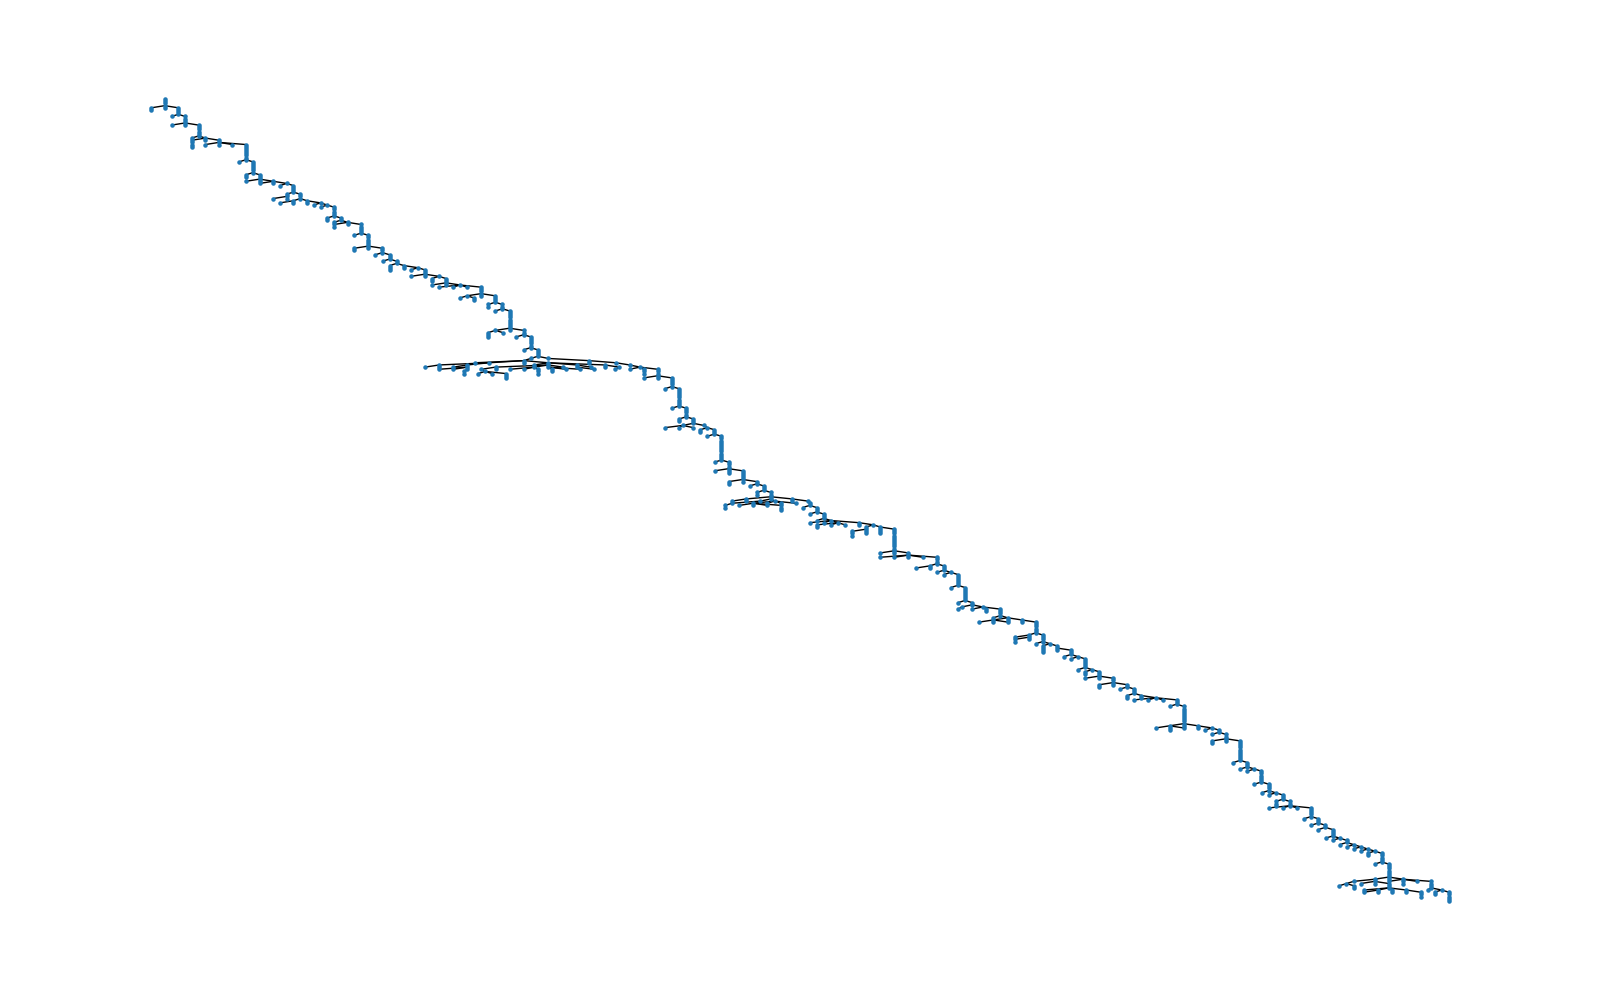
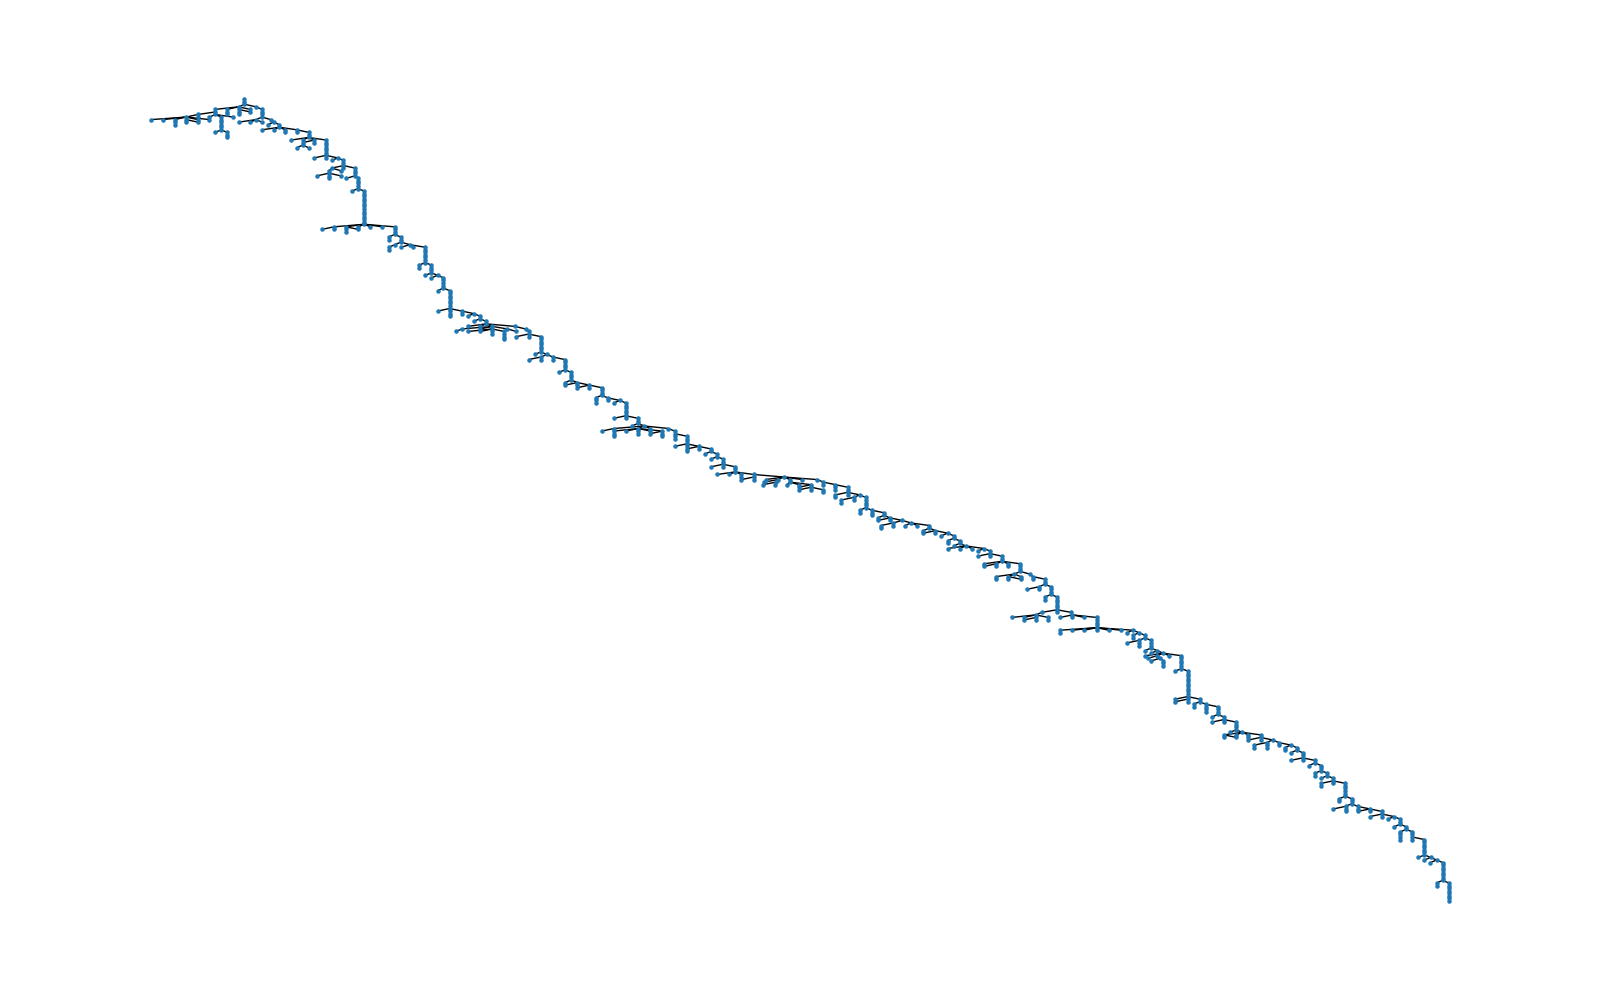
worked on the basics of the algo

Changed region(s): [[0.0938, 0.093, 0.7188, 0.682], [0.6875, 0.651, 0.9062, 0.899]]

diff --git a/loop_contraction.py b/loop_contraction.py
@@ -5,74 +5,139 @@ from matplotlib import pylab
 from networkx.drawing.nx_pydot import graphviz_layout
 import matplotlib.pyplot as plt
 from matplotlib.animation import FuncAnimation
+from itertools import chain
 
-class HyperEdge:
-    def __init__(self, members):
-        self.members = members #list of vertice labels (ints)
-    def append(self, v):
-        self.members.append(v)
-    def out_edges(self, T):
-        out_edges = []
-        for v in self.members:
-            if(T.nodes[v]["out_degree"] > 0): #a member has a vertex out
-                out_edges = out_edges + T.node[v]["out_edges"]
-        return out_edges # a list of edge values
-
-global T
+global T, COUNTER
+COUNTER = 1
 T = nx.MultiDiGraph()
 
 """ Simulate a random walk on the binary tree for N steps. """ 
 def loop_contraction(N, T): 
-    path = [(0,0)]
-    T.add_node(0, out_degree=0, in_edges=[], out_edges=[])
-    ctr = 0
-    cur_step = 0 #start at root
-    for _ in range(N):
-        origin_of_step, next_step, H = step(cur_step, H) #changes the hypergraph
+    path = [1] #the path that will be animated, stored as a ordered list of vertices
+    edge_list = [(1,0)]
+    T.add_node(1, parent =-1, isInSuperVertex = False)
+    for _ in range(N): #each step
+        #see if the last entry is a tupple of tupples or just a tuple of ints (i.e are we in a super vertex)
+        v = edge_list[-1][0] #if not super vertex, then this is where our walk is at right now
+        next_step = -1
+        print(f"STEP NUMBER {_}")
+        if type(v) is int:
+            #normal vertex
+            #determine our possible paths out
+            temp_set = set()
+            temp_set.add(v)
+            v, next_step = out_edges_from(T,edge_list, temp_set) #pick a random one
+            print(f"We are at {v}")
+        else:
+            #we are in a super vertex
+            #make a set of all the vertices inside the super vertex
+            vertices = set()
+            for vertex in edge_list[-1]:
+                vertices.add(vertex[0])
+                vertices.add(vertex[1])
+            v, next_step = out_edges_from(T, edge_list, vertices)
+
+        #check the list if we have made any contractions,i.e check for cycles
+        print((v, next_step) in edge_list)
+        if (v, next_step) in edge_list: #we have a cycle, contract
+            #remove the first part of the cycle, put it at the front and turn into super vertex
+            print("CYCLE DETECTED")
+            edge_list.remove((v, next_step))
+            edge_list.append(((next_step, v), (v, next_step)))
+            if T.nodes[next_step]["isInSuperVertex"] == True or T.nodes[v]["isInSuperVertex"] == True:
+                #gotta union the super vertices if they overlap
+                print("OVERLAP DETECTED")
+                overlapping_svert = []
+                for edge in edge_list:
+                    print(edge)
+                    if isVertexInSuperEdge(v, edge) or isVertexInSuperEdge(next_step, edge): #contract
+                        print("OVERLAPPED ^")
+                        overlapping_svert.append(edge)
+                        edge_list.remove(edge)
+
+                union = tuple(flatten_edge_list(overlapping_svert)) #flatten the above list from ((),(),((),())) into ((),(),())       
+                edge_list.append(union)
+            else:
+                T.nodes[next_step]["isInSuperVertex"] = True
+                T.nodes[v]["isInSuperVertex"] = True #book keeping for next step
+        else:
+            edge_list.append((next_step,v))
+
+        path.append(next_step)
+        print(edge_list)
+        print("----")
         
-        if next_step >ctr:#change the multiditree, legality of step is already verified above
-            T.add_node(ctr, out_degree=0, in_edges=[], out_edges=[]) #add the node
+    return edge_list, path
 
-            if origin_of_step == cur_step: #no hyper edge was used
-                T.nodes[cur_step]["out_edges"] += 1
-                T.nodes[cur_step]["out_degree"] += 1
-                T.add_edge(cur_step, ctr)
-                path.append((cur_step, next_step))
-            else: #a hyper edge was used
-                T.nodes[origin_of_step]["out_edges"] += 1
-                T.nodes[origin_of_step]["out_degree"] += 1
-                T.add_edge(origin_of_step, ctr)
-                path.append((cur_step, origin_of_step))
-                path.append((origin_of_step, next_step))
-    return path  
+def out_edges_from(T, edge_list, vertices):
+    #
+    global COUNTER
+    possible_out_verticies = []
+    vert_to_out = {}
+    flat_edge_list = flatten_edge_list(edge_list)
+    print(f"The flat edge list: {flat_edge_list}")
+    print(f"VERTICES: {vertices}")
+    next_step = -1
+    d = 3 #what kind of tree is this
+    for v in vertices:
+        vert_to_out[v] = [] #empty list
+        possible_out_verticies.extend([v]*d)
+        for v_tup in flat_edge_list:
+            #count how many times, keep an account of to where  
+            if v_tup[1] == v:
+                possible_out_verticies.remove(v)
+                vert_to_out[v].append(v_tup[1])
+    out_vertex = random.choice(possible_out_verticies) #pick out of which vertex to come out from
+    #pick which edge to go thru
+    direction = random.randrange(1,d)
+    if direction ==1 and (T.nodes[out_vertex]["parent"] not in vert_to_out[out_vertex]) and (out_vertex != 1): #the parent hasnt been walked to
+        next_step = T.nodes[out_vertex]["parent"]
+    else:
+        #make a new edge to walk to
+        COUNTER += 1
+        T.add_node(COUNTER, parent = out_vertex, isInSuperVertex = False)
+        next_step = COUNTER
 
-"""
-Needs a hypergraph, H, and a current vertex, v
-"""
-def step(v, H):
-    #alter the graph
-    #chose randomly
-    origin_of_step = -1
-    next_step = -2
-    return origin_of_step, next_step, H
+    print(f"Next step ({next_step}, {out_vertex})")
+    T.add_edge(out_vertex, next_step)
+    return (out_vertex, next_step)
+    
+def flatten_edge_list(edge_list):
+    #take a list of tupples and tupples of tupples, and flatten into just a list of tupples
+    flat_list = []
+    for elem in edge_list:
+        if type(elem[0]) is int: # (int, int)
+            flat_list.append(elem)
+        else: #((int, int), (int, int))
+            for i in elem:
+                flat_list.append(i)
+    return flat_list
+
+def isVertexInSuperEdge(vertex, edge_list_obj):
+    if type(edge_list_obj[0]) is tuple:
+        for edge in edge_list_obj:
+            if vertex == edge[0] or vertex == edge[1]:
+                return True
+        
+    return False
 #Gives the animation
 def animate_graph_traversal(graph, traversal_order):
     pos = graphviz_layout(T, prog="dot")  # Position nodes using spring layout
     fig, ax = plt.subplots()
-    ani = FuncAnimation(fig, update_animation, frames=len(traversal_order), fargs=(graph, pos, traversal_order, ax), interval=50)
+    ani = FuncAnimation(fig, update_animation, frames=len(traversal_order), fargs=(graph, pos, traversal_order, ax), interval=1500)
     plt.show()
 
 def update_animation(frame, graph, pos, traversal_order, ax):
     ax.clear()
-    current_node = traversal_order[frame][1]
-    nx.draw(graph, pos, with_labels=False, node_size=10, ax=ax)
-    nx.draw_networkx_nodes(graph, pos, nodelist=[current_node], node_color='r', node_size=10)
+    current_node = traversal_order[frame]
+    nx.draw(graph, pos, with_labels=True, node_size=200, ax=ax)
+    nx.draw_networkx_nodes(graph, pos, nodelist=[current_node], node_color='r', node_size=100)
     #nx.draw_networkx_labels(graph, pos, labels=None, font_color='w', font_size=3, ax=ax)
 
-N = 500
-path = loop_contraction(N, T) 
-print(path)
+N = 50
+edge_list, path = loop_contraction(N, T) 
+print(edge_list)
 pos = graphviz_layout(T, prog="dot")
-nx.draw(T, pos, with_labels= False, node_size =5)
-plt.show() # Gives a static image
-#animate_graph_traversal(T,path) #Animated the thing
+nx.draw(T, pos, with_labels= True, node_size = 200)
+#plt.show() # Gives a static image
+animate_graph_traversal(T,path) #Animated the thing
